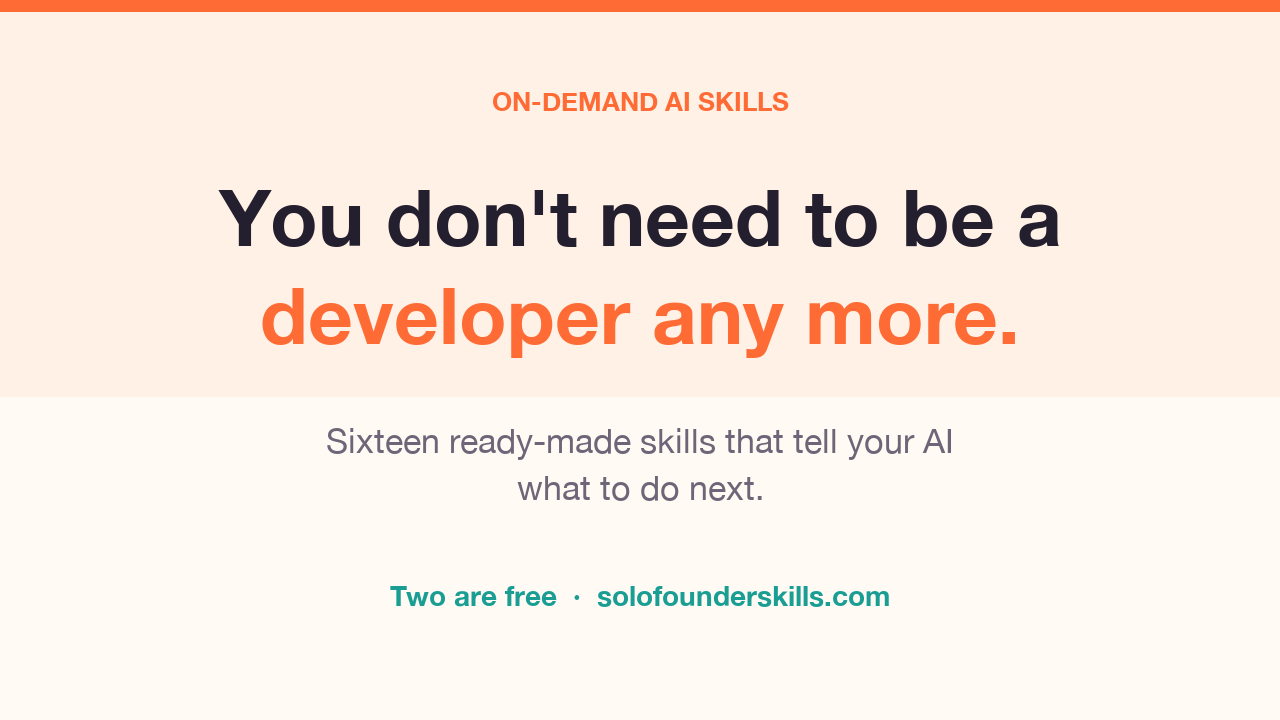
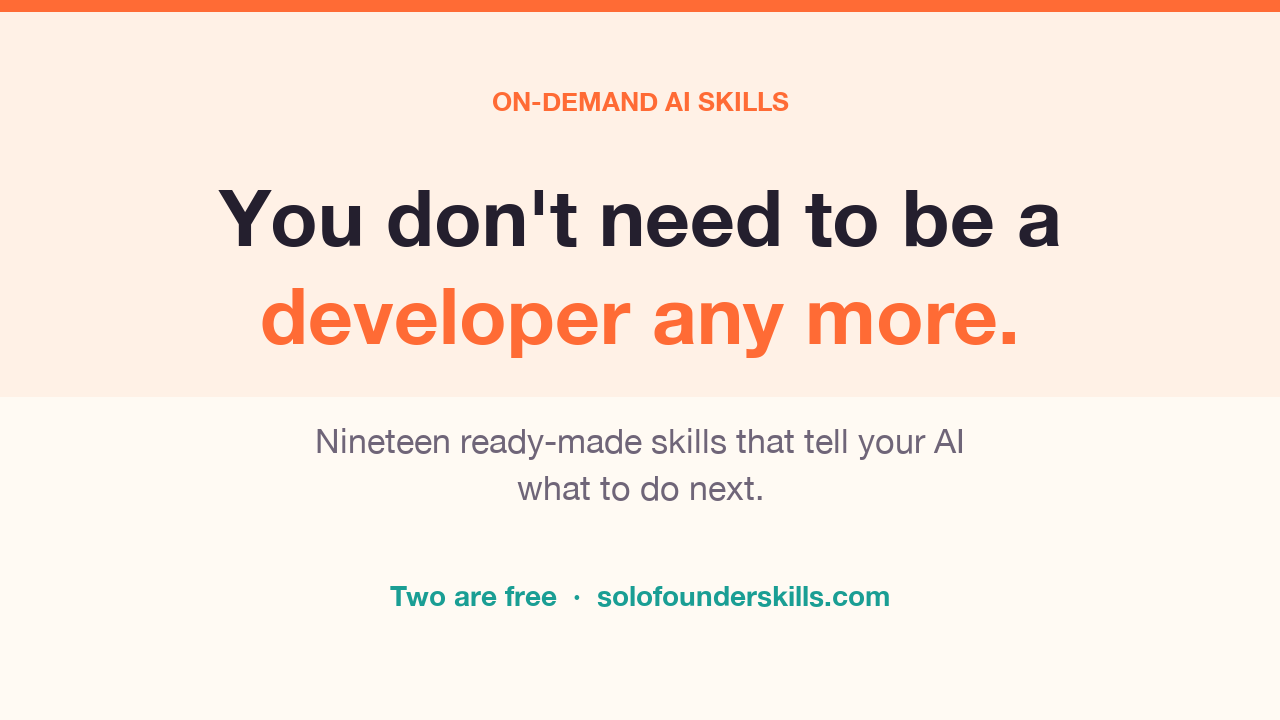
add sell-without-a-backend and email-on-your-domain; 19 skills

Changed region(s): [[0.25, 0.5806, 0.75, 0.6417]]

diff --git a/index.html b/index.html
@@ -4,7 +4,7 @@
 <meta charset="utf-8">
 <meta name="viewport" content="width=device-width,initial-scale=1">
 <title>On-demand AI skills — teach your AI to do the work you keep redoing</title>
-<meta name="description" content="Seventeen ready-made skills for Claude, ChatGPT or Gemini — check if an idea is worth building, know what a customer costs, get found on Google. Two free.">
+<meta name="description" content="Nineteen ready-made skills for Claude, ChatGPT or Gemini — check if an idea is worth building, know what a customer costs, get found on Google. Two free.">
 <link rel="canonical" href="https://solofounderskills.com/">
 <meta property="og:type" content="website">
 <meta property="og:title" content="On-demand AI skills for people building on their own">
@@ -15,7 +15,7 @@
 <script type="application/ld+json">
 {"@context":"https://schema.org","@type":"Product",
  "name":"Solo Founder Skills — On-demand AI Skills",
- "description":"Seventeen ready-made skills for AI assistants, covering building a product and getting people to use it.",
+ "description":"Nineteen ready-made skills for AI assistants, covering building a product and getting people to use it.",
  "brand":{"@type":"Brand","name":"Solo Founder Skills"},
  "offers":{"@type":"Offer","price":"49","priceCurrency":"USD","availability":"https://schema.org/InStock"}}
 </script>
@@ -107,9 +107,9 @@
    <span class="pill">On-demand AI skills</span>
    <h1>You don’t need to be a developer any more.</h1>
    <p class="lede">AI changed who gets to build things. The hard part isn’t code
-   now — it’s knowing what to do next. These are seventeen ready-made skills that
+   now — it’s knowing what to do next. These are nineteen ready-made skills that
    tell your AI exactly that, drawn from real products and real mistakes.</p>
-   <a class="cta" href="#get">Get all seventeen — $49 →</a>
+   <a class="cta" href="#get">Get all nineteen — $49 →</a>
    <p class="sub">Two are free below. Read those first, then decide.</p>
   </div>
   <div><svg viewBox="0 0 520 380" xmlns="http://www.w3.org/2000/svg" role="img"
@@ -198,13 +198,13 @@
  on day three, whether the thing you just changed actually worked.</p>
  <p style="color:var(--dim);max-width:46em"><strong>That’s what these are.</strong>
  A skill is a recipe your AI follows — you write it down once and it works
- out when to use it. Nine of these seventeen need no technical knowledge at all.
+ out when to use it. Eleven of these nineteen need no technical knowledge at all.
  The other eight are for when you’re building. Both are marked below, so there
  are no surprises.</p>
 </div></section>
 
 <section><div class="wrap">
- <p class="kicker">The seventeen</p>
+ <p class="kicker">The nineteen</p>
  <h2>What's in the pack</h2>
 
  <p class="legend"><b>No terminal needed</b> &mdash; download the file, drop it in, and use it in a normal chat &mdash; Claude, ChatGPT, Gemini, Copilot, whatever you already pay for. No code, no command line, nothing to install. <b>For a site or app</b> &mdash; same download, but these ones are for when you&rsquo;ve actually got something built and want your AI working on it.</p>
@@ -217,6 +217,24 @@
   <b>you cannot grant drafting without also granting send</b> &mdash; they are one permission
   &mdash; and if you are signed into more than one account, you will connect the wrong
   inbox without noticing.</p>
+ </div>
+
+ <div class="feat">
+  <span class="new">New &middot; just added</span>
+  <h3>Take money for it, without building a backend<span class="tag t-easy" style="margin-left:9px">no terminal needed</span></h3>
+  <p>A payment link, a thank-you page and a file &mdash; no server, no database, no login.
+  Including the checks that fail silently: a checkout page that reports success while
+  being completely dead, the statement line that gets you charged back, and why
+  &ldquo;no refunds&rdquo; without an email address costs you more than refunds would.</p>
+ </div>
+
+ <div class="feat">
+  <span class="new">New &middot; just added</span>
+  <h3>Get support@yourdomain working for free<span class="tag t-easy" style="margin-left:9px">no terminal needed</span></h3>
+  <p>Your registrar wants to sell you a mailbox. You don&rsquo;t need one &mdash; you need
+  forwarding, which is free and takes ten minutes. Four ways it fails silently, including
+  one character at the end of a record that saves fine and does nothing, and the setting
+  that will quietly put your replies in spam months later.</p>
  </div>
 
  <div class="group">Before you build anything</div>
@@ -319,7 +337,7 @@
  <div class="free">
   <h2 style="margin-bottom:8px">Two are free. Judge the rest by them.</h2>
   <p style="color:var(--dim)">Not teasers — the complete files, same as the
-  fifteen you'd pay for. If they're not useful, don't buy the pack.</p>
+  seventeen you'd pay for. If they're not useful, don't buy the pack.</p>
   <div class="grid" style="margin-top:20px">
    <div class="card"><h3><a href="/free/idea-kill-search/">Know if an idea is worth building</a></h3>
     <p>Three searches and four questions, before you build anything.</p></div>
@@ -332,7 +350,7 @@
 <section id="get"><div class="wrap">
  <div class="pricebox">
   <div class="price">$49 <small>once</small></div>
-  <p style="color:var(--dim);margin-top:10px">All seventeen skills. No subscription,
+  <p style="color:var(--dim);margin-top:10px">All nineteen skills. No subscription,
   no account to make. Updates included.</p>
   <a class="cta" href="https://buy.stripe.com/bJecN58vp61T79k8zs53O00">Get the pack →</a>
   <p class="sub">All sales final &mdash; <a href="#free" style="color:inherit">read two of them free first</a> &middot; <a href="/terms/" style="color:inherit">terms</a></p>
@@ -344,7 +362,7 @@
  <h2>Questions</h2>
  <dl class="faq">
   <dt>Do I need to be technical?</dt>
-  <dd>For nine of them, no &mdash; working out if an idea is worth building, knowing
+  <dd>For eleven of them, no &mdash; working out if an idea is worth building, knowing
   what a customer costs, pricing a sponsored post, finding out if a change worked,
   fixing a listing that doesn't sell. You download those, drop them in, and use them
   in a normal chat &mdash; no command line anywhere. They're the ones marked
@@ -352,7 +370,7 @@
   there are no surprises.</dd>
 
   <dt>What do I actually get?</dt>
-  <dd>Seventeen text files and a short guide on where to put them. That's genuinely
+  <dd>Nineteen text files and a short guide on where to put them. That's genuinely
   it — no software to install, nothing to configure.</dd>
 
   <dt>Which AI assistants does this work with?</dt>
@@ -367,9 +385,9 @@
   assistants have nowhere to keep a library like that, so you choose the skill yourself
   and paste it. Nothing about the instructions changes; you just do the picking.</dd>
 
-  <dt>Why seventeen and not six hundred?</dt>
+  <dt>Why nineteen and not six hundred?</dt>
   <dd>Because each one came from something that actually went wrong, and there
-  have been seventeen worth writing down. Padding the number would mean padding with
+  have been nineteen worth writing down. Padding the number would mean padding with
   advice you can already read for free.</dd>
 
 
